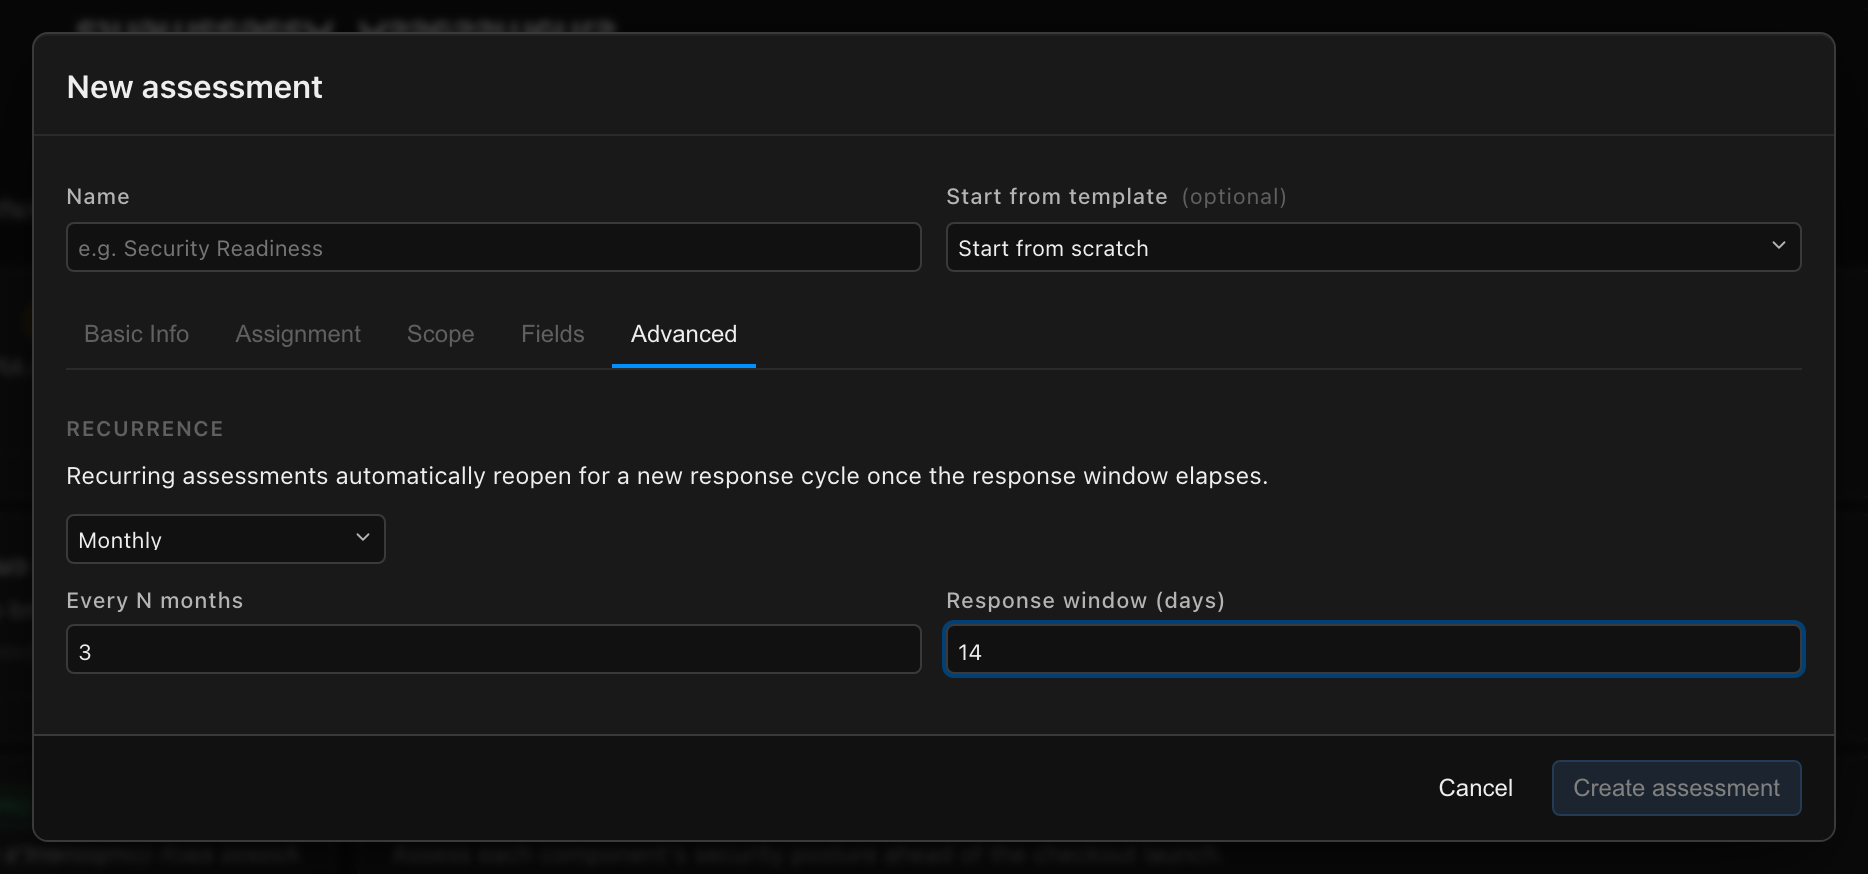
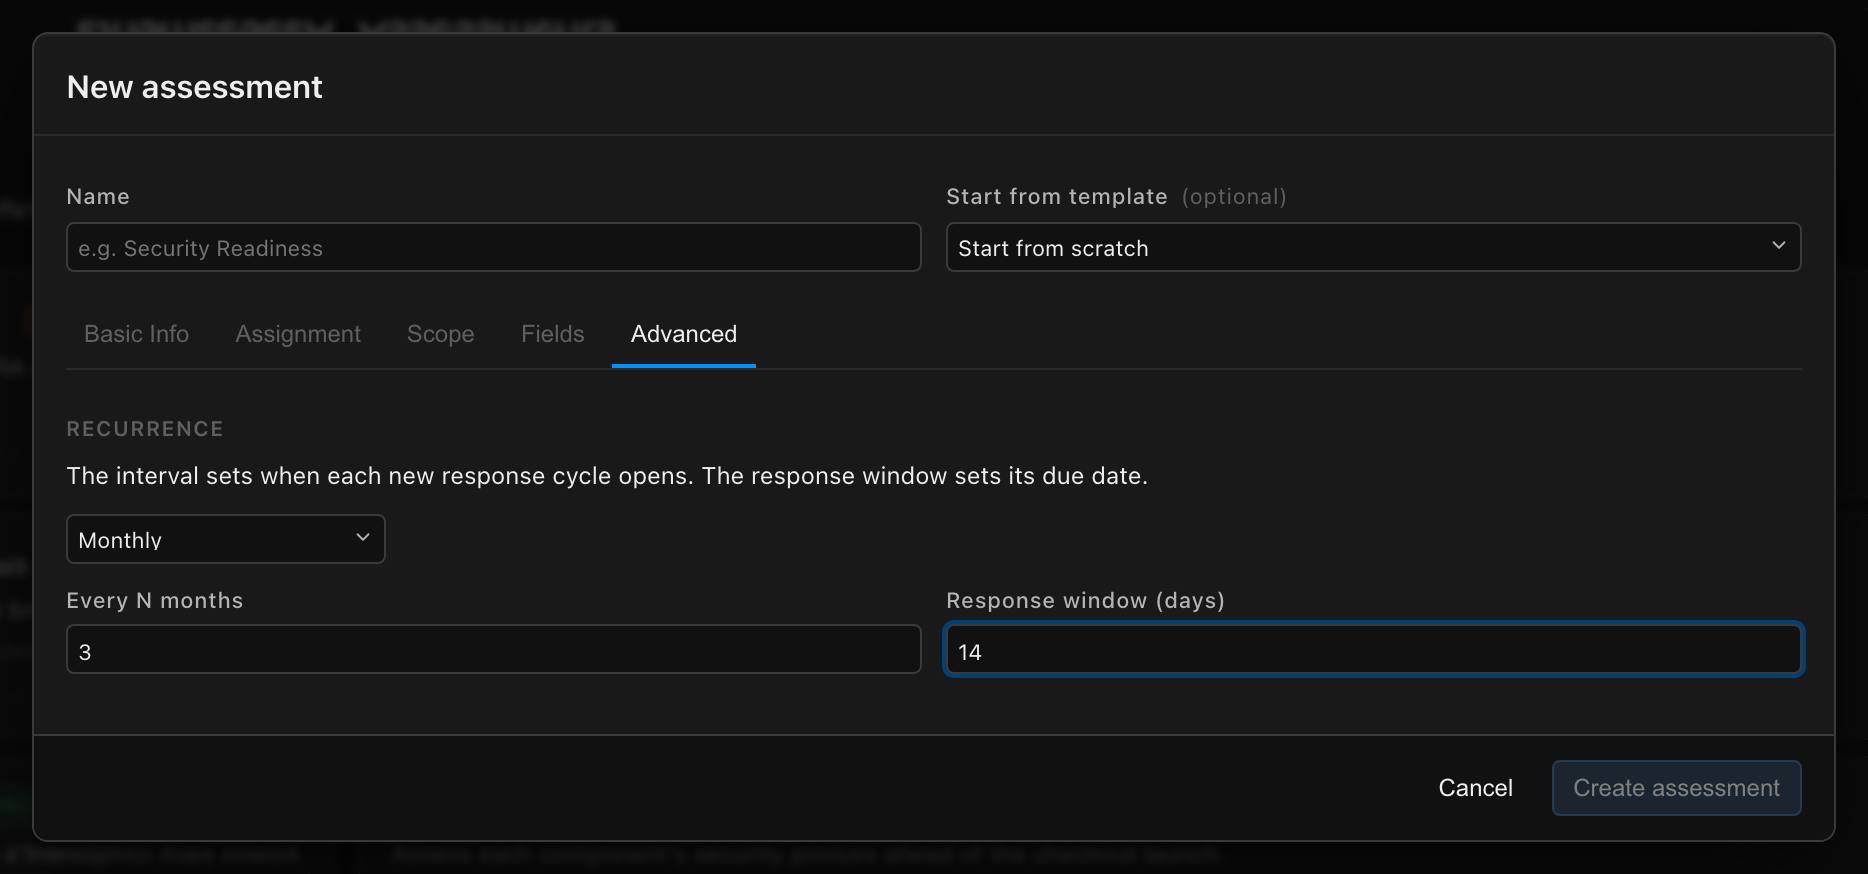
Fix

Changed region(s): [[0.031, 0.5252, 0.6831, 0.5561]]

diff --git a/docs-site/docs/arch-register/use/screenshots.ts b/docs-site/docs/arch-register/use/screenshots.ts
@@ -372,6 +372,8 @@ export const screenshots: ArchRegisterScreenshotConfig[] = [
       await projectsPage.page.getByRole('button', { name: "What's changed", exact: true }).click();
       await expect(projectsPage.page.getByText(/What's changed by/)).toBeVisible();
       await expect(projectsPage.page.getByText('Overdue changes')).toBeVisible();
+      await projectsPage.page.getByRole('checkbox', { name: 'Overdue changes' }).check();
+      await expect(projectsPage.page.getByText('No entity changes')).not.toBeVisible();
     }
   },
   {

diff --git a/arch-register-packages/web/src/sections/projects/components/AssessmentEditorTabs.tsx b/arch-register-packages/web/src/sections/projects/components/AssessmentEditorTabs.tsx
@@ -351,8 +351,7 @@ export const AssessmentAdvancedTab = ({ editor }: { editor: AssessmentEditorCont
     <div className={styles.section}>
       <div className={styles.sectionLabel}>Recurrence</div>
       <div className={styles.sectionHint}>
-        Recurring assessments automatically reopen for a new response cycle once the response window
-        elapses.
+        The interval sets when each new response cycle opens. The response window sets its due date.
       </div>
       <div style={{ width: 160 }}>
         <Select.Root

diff --git a/feature-maps/arch-register.md b/feature-maps/arch-register.md
@@ -1338,11 +1338,11 @@
 
         - @id:ar.assessments.recurrence Users can configure an assessment to recur weekly or monthly (with a
           configurable interval, so quarterly or annual cadences are just a monthly interval of 3 or 12) and set a
-          response window in days. Once open, a recurring assessment automatically reopens for a new response cycle
-          when its response window elapses: prior responses are preserved but no longer count toward completion, so
-          teams re-attest each cycle rather than seeing stale "complete" state, and the assigned teams' governance
-          inbox acknowledgement task is recreated for the new cycle. The assessment card shows the current cycle
-          number and when it next reopens.
+          response window in days. The configured interval schedules each new response cycle, and the response window
+          sets that cycle's due date. Prior responses are preserved but no longer count toward completion, so teams
+          re-attest each cycle rather than seeing stale "complete" state, and the assigned teams' governance inbox
+          acknowledgement task is recreated for the new cycle. The assessment card shows the current cycle number
+          and when it next reopens.
 
     - @id:ar.content Users can maintain Markdown, diagram, and document content at workspace, project, and entity
       scopes.
